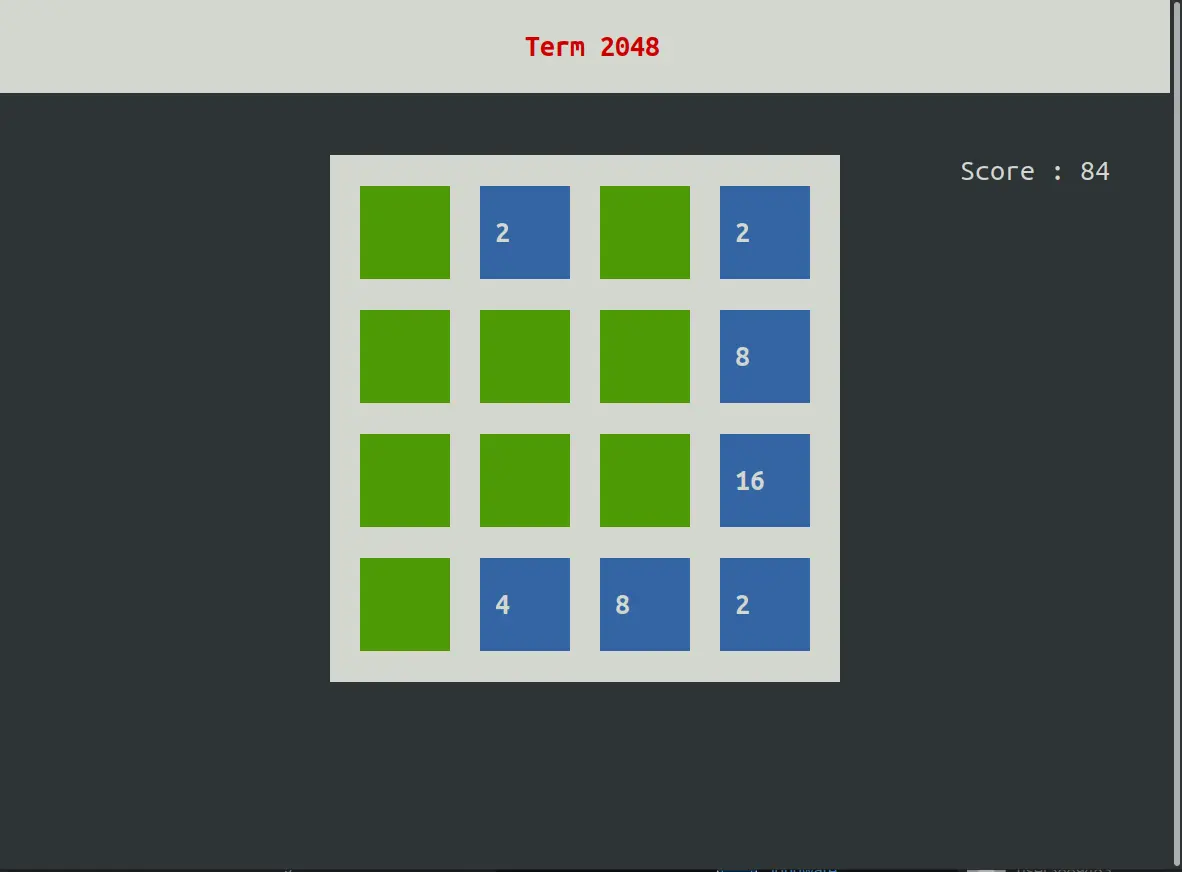
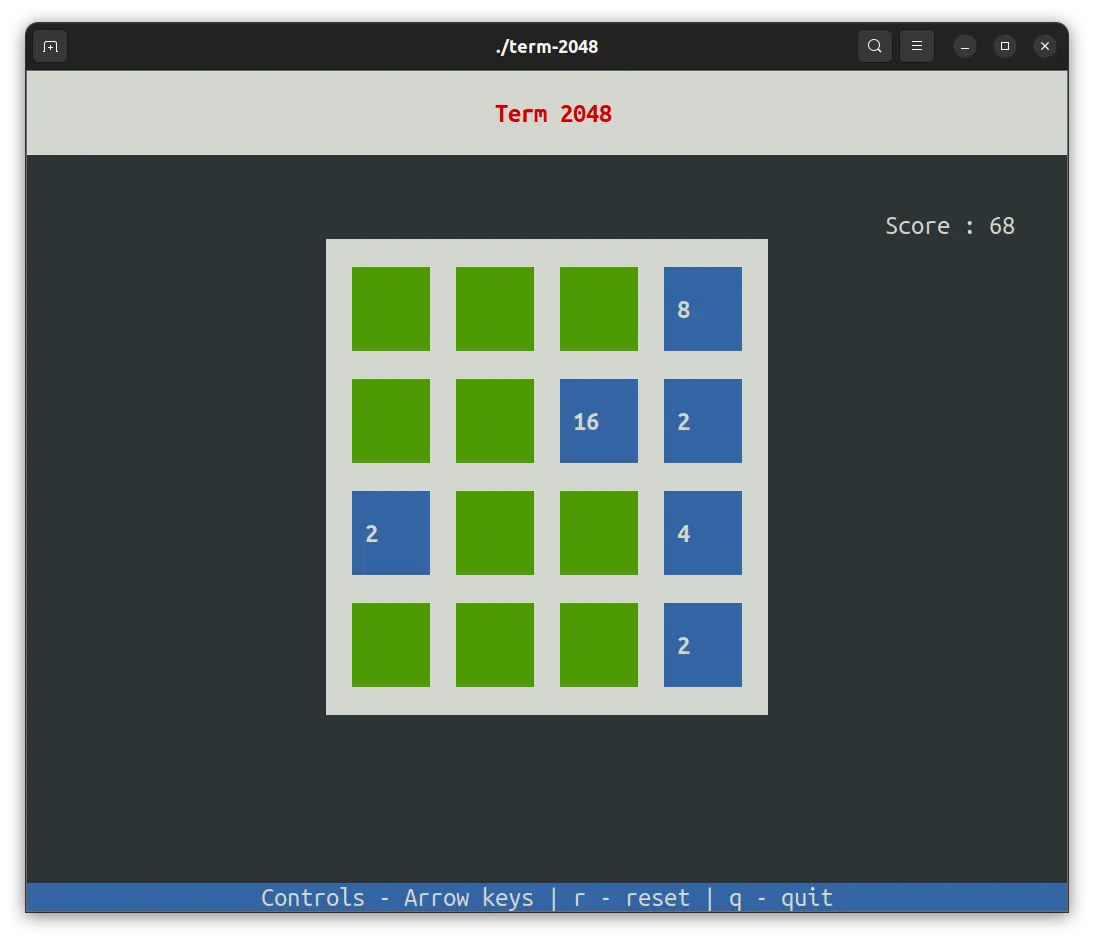
added status line

diff --git a/src/main.cpp b/src/main.cpp
@@ -1,4 +1,5 @@
 #include "game2048.hpp"
+#include <string>
 #include <ncurses.h>
 
 // Print game on screen
@@ -28,8 +29,11 @@ void display(const Game2048& game) {
 			}
 		}
 	}
+  std::string controls_string{"Controls - Arrow keys | r - reset | q - quit"};
+  mvaddstr(y - 1, (x -  controls_string.length()) / 2, controls_string.c_str());
+  mvchgat(y - 1, 0, -1, A_NORMAL, 3, NULL);
 	if (game.is_locked()) {
-		mvaddstr(6, (x - 9) / 2, "Game Over");
+		mvaddstr(y - 4, (x - 9) / 2, "Game Over");
 	}
 }
 

diff --git a/docs/README.md b/docs/README.md
@@ -1,6 +1,6 @@
 # Term 2048
 
-2048 game for the linux terminal. Ncurses is used to handle screen.
+2048 game for the linux terminal.
 
 ![Term 2048](/docs/screenshot.webp)
 
@@ -10,7 +10,7 @@ The game can be played using the arrow keys
 
 Press **q** or **Q** to quit and **r** to reset the game
 
-## Build and run
+## Build
 
 If libncurses-dev is not installed install it. In debian based system install using apt. Use appropriate package manager in other distros.
 
@@ -21,7 +21,7 @@ sudo apt install libncurses-dev
 Clone the repository
 
 ```
-git clone https://github.com/youaremagic/term-2048
+git clone https://github.com/magicisyou/term-2048
 ```
 
 Change directory
